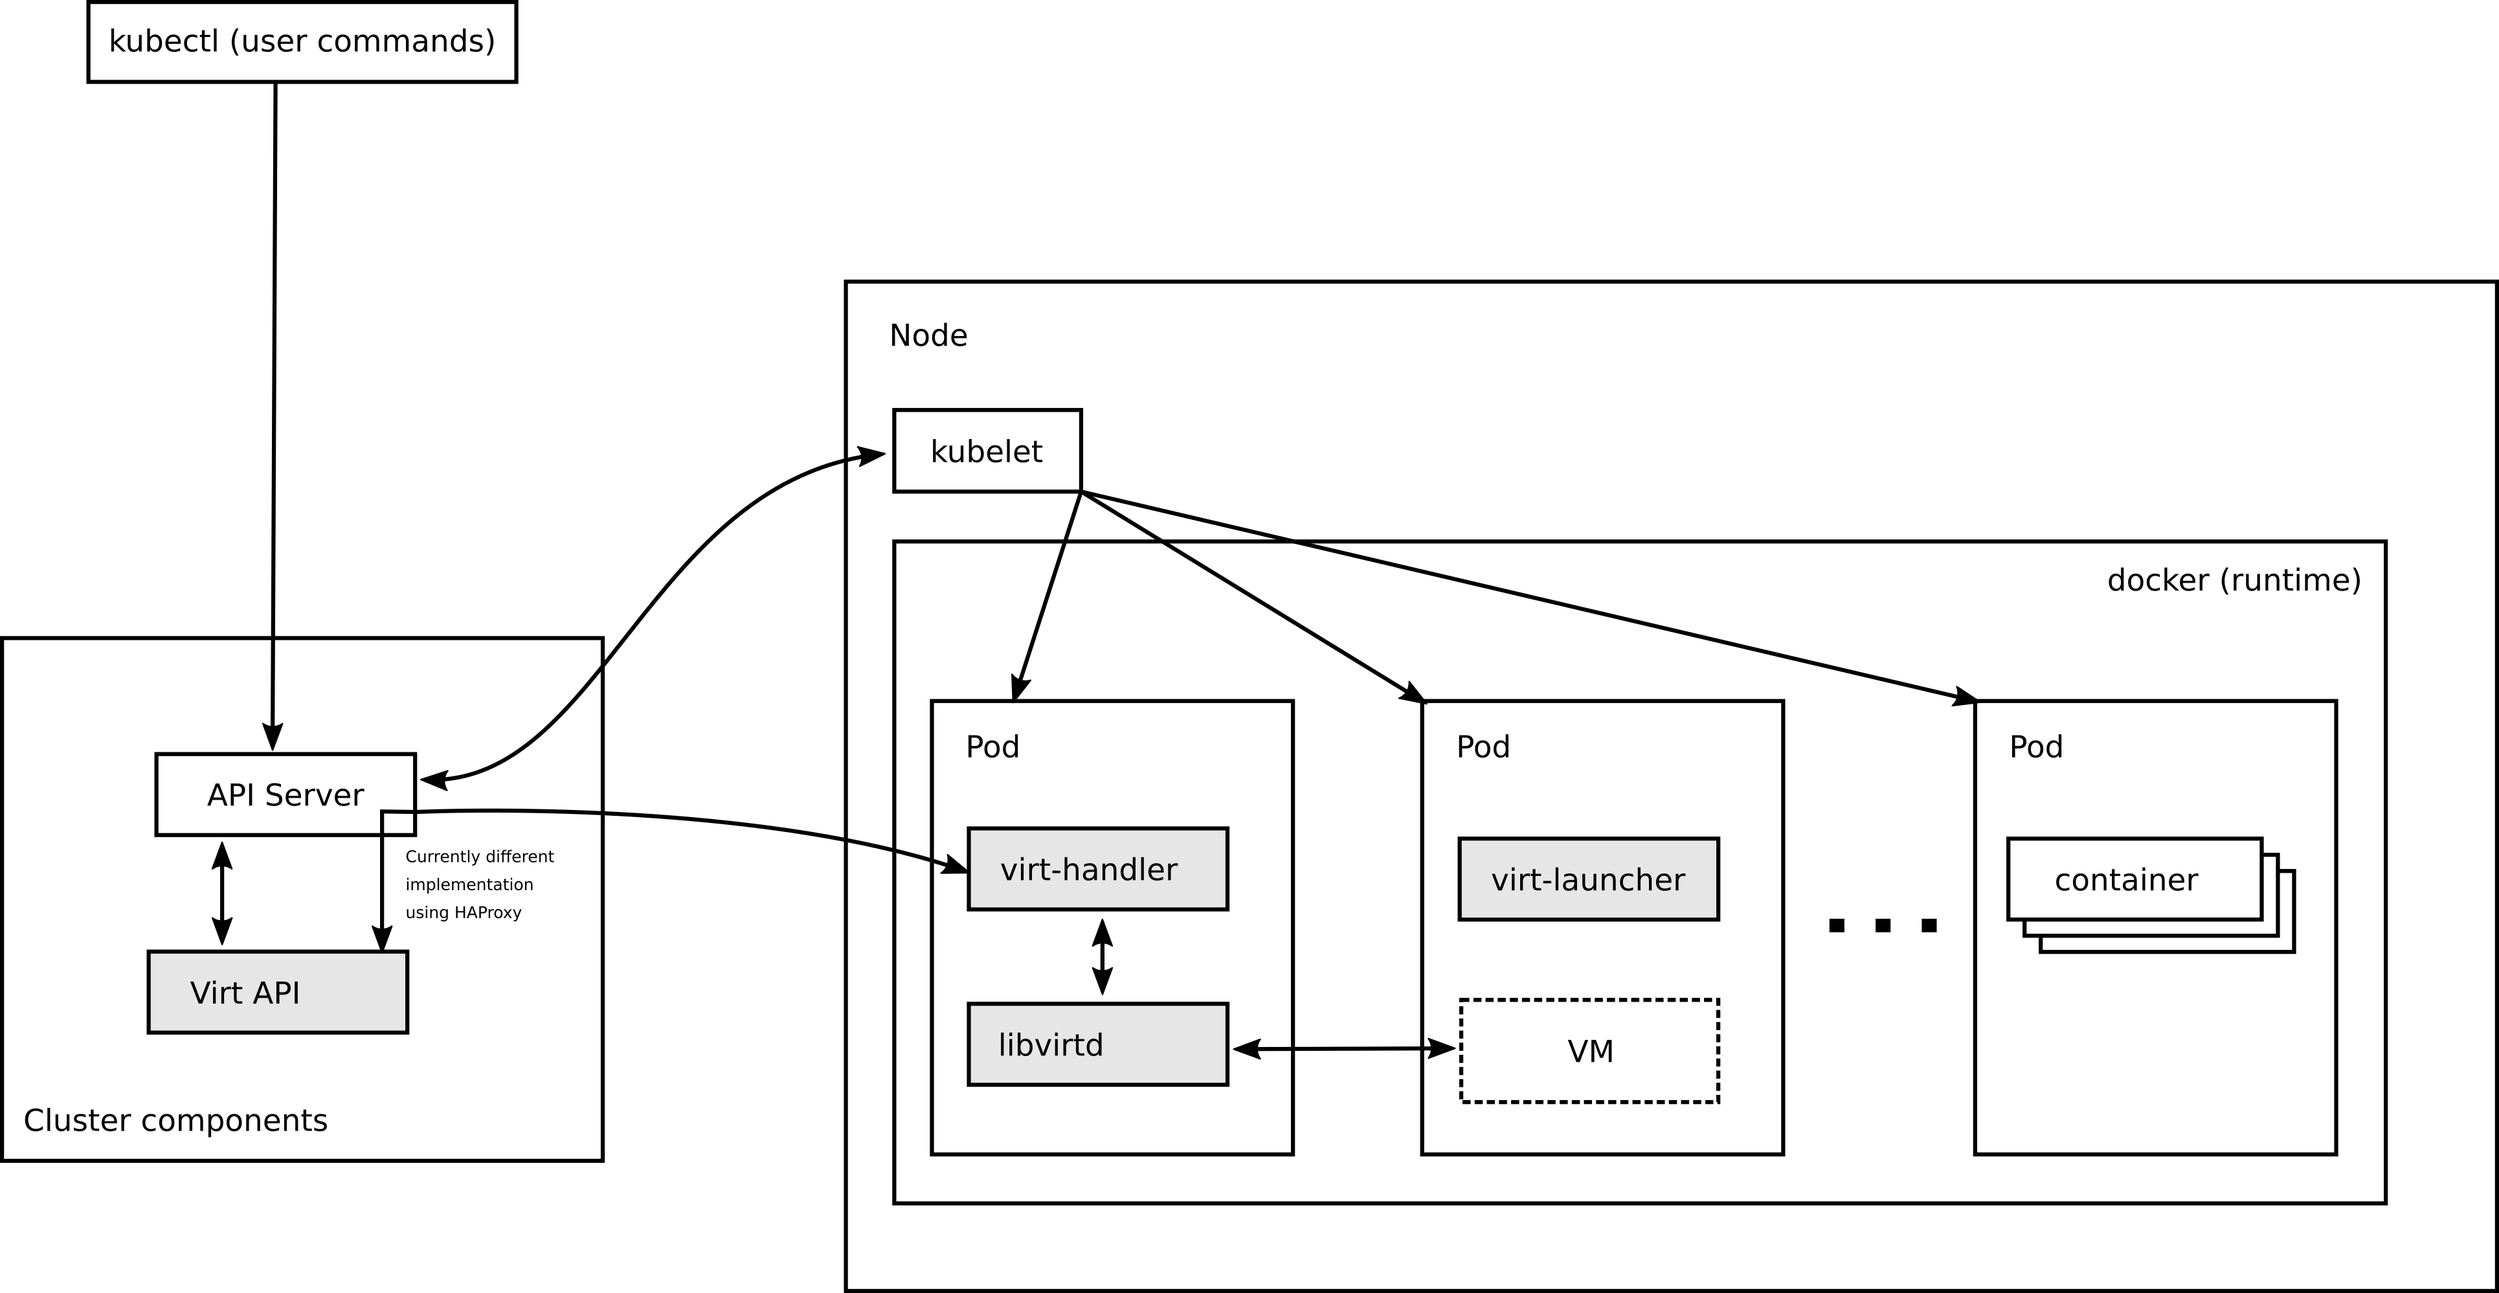
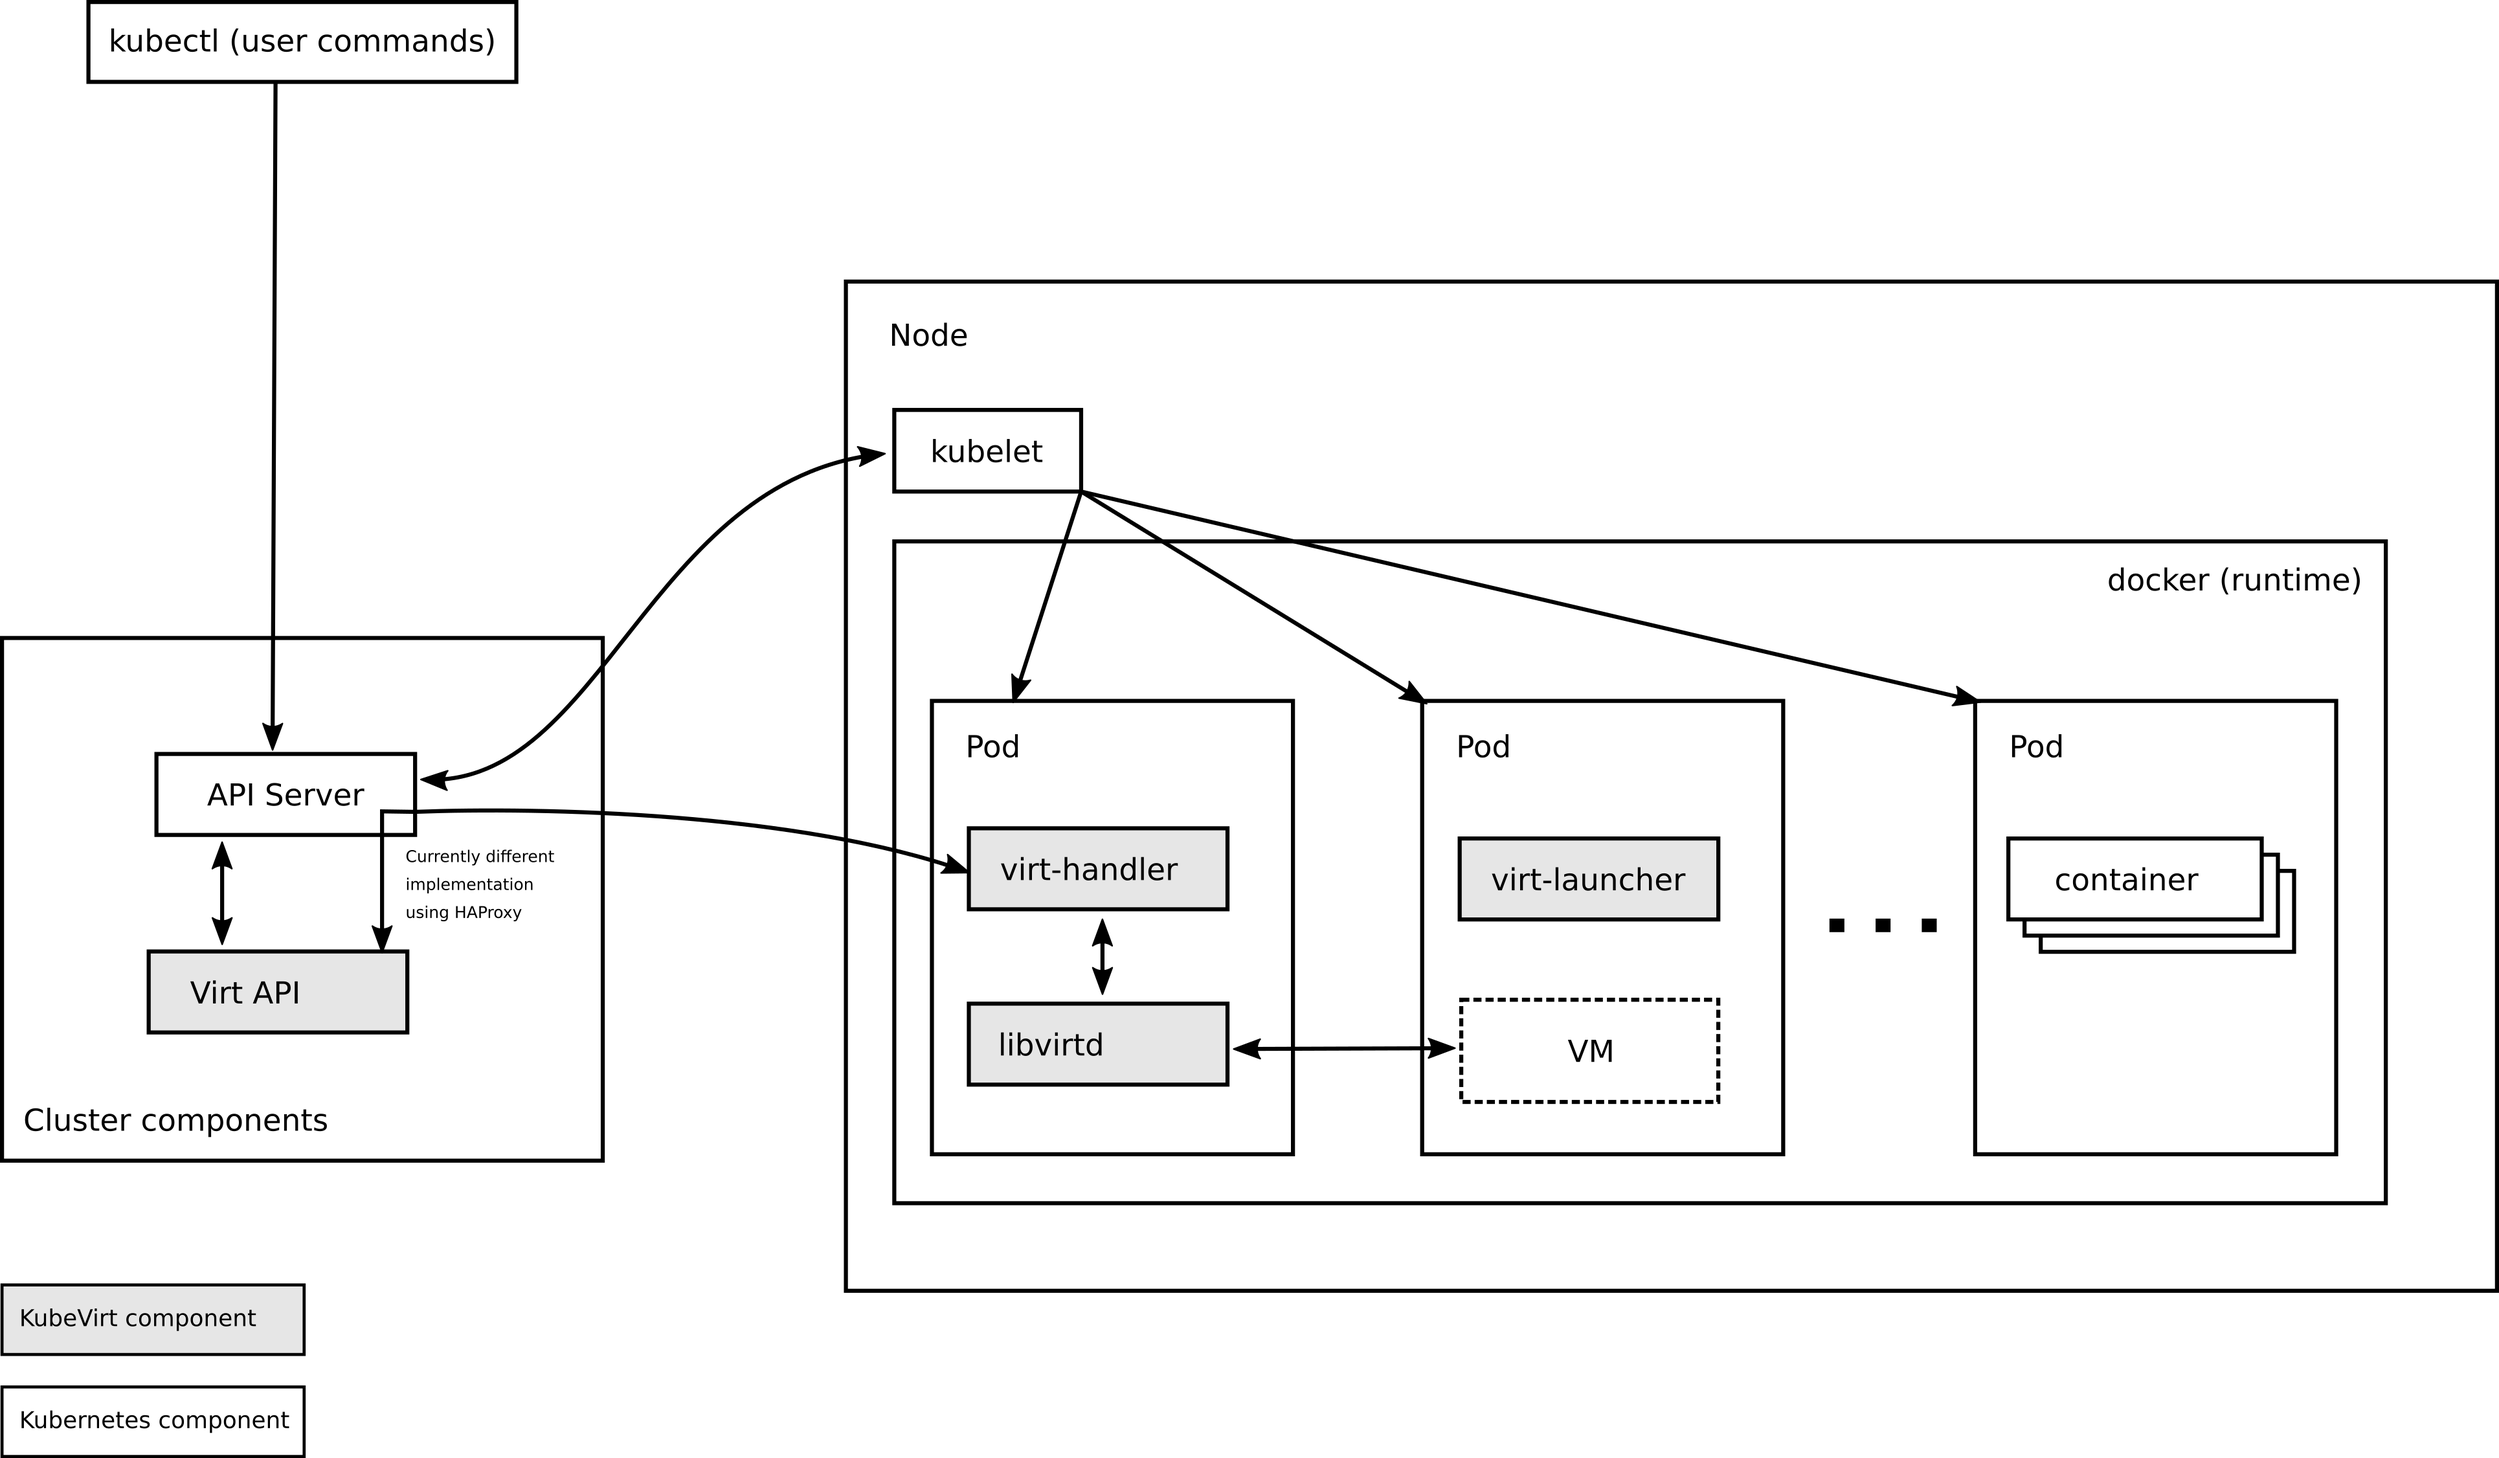
docs: Add legend to diagram

diff --git a/docs/architecture.md b/docs/architecture.md
@@ -70,9 +70,6 @@ communicate with Kubernetes and where the additional types are stored:
 
 ![Architecture diagram](architecture.png "Architecture")
 
-* (white boxes): Kubernetes native components
-* (gray boxes): KubeVirt components
-
 
 ## Application Layout
 
